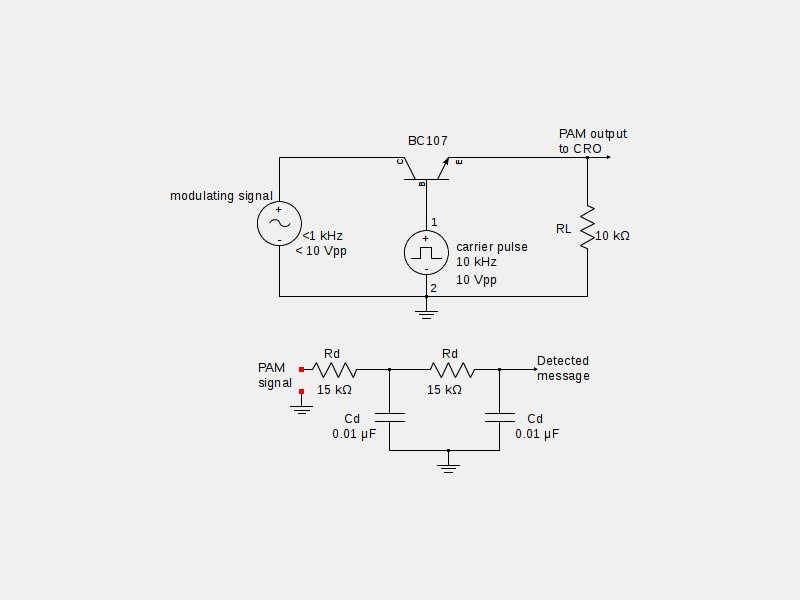
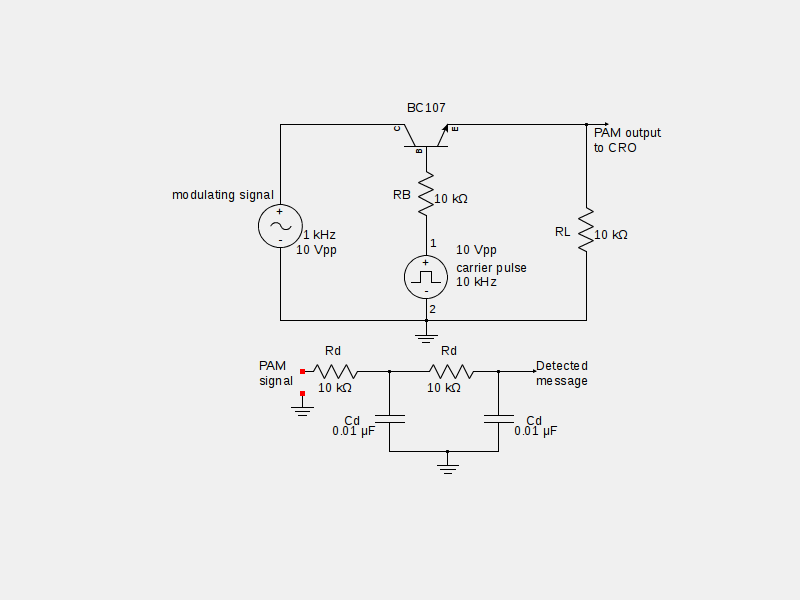
Correction done in circuit diagram of PAM using transistor
Added a missing resistor at the base of the transistor.
Modified the demodulator diagram as per the design.

diff --git a/chapters/PAM.tex b/chapters/PAM.tex
@@ -5,7 +5,8 @@ To set-up and implement circuits to carry out pulse amplitude modulation. To des
 \section*{Theory}
 Pulse amplitude modulation is a kind of digital modulation technique in which analog message signal is sampled at constant frequency - \emph{carrier frequency}. A pulse of specified duration is used to sample the message signal. When the pulse is on, the message is sampled and when it is off no message is sampled. This is a basic step in the digitization of analog message signals. The circuits to be implemented in this experiment does a kind of natural sampling.\footnote{For more on natural sampling, refer Digital Transmission \cite{Tomasi}}.
 
-Waveforms showing pulse carriers whose amplitude is modulated buy message is shown in Figure \ref{PAMmod1} and \ref{PAMmod2}. A simple way to implement this is to allow the message to be fed as the input to a switch and the switch ON/OFF time is controlled by the pulses at sampling frequency.
+Waveforms showing pulse carriers whose amplitude is modulated buy message is shown in Figure \ref{PAMmod1} and \ref{PAMmod2
+}. A simple way to implement this is to allow the message to be fed as the input to a switch and the switch ON/OFF time is controlled by the pulses at sampling frequency.
 
 The demodulation of PAM waveform can be implemented by using a lowpass filter which passes message signal frequenies but blocks the carrier signal.
 \begin{figure}[h]
@@ -49,7 +50,7 @@ Choose $R_d=\ 10k\Omega$ standard resistor value.\\
 The PAM generation using transistor as a switch and demodulation circuit is shown in Figure. \ref{pamckt}.
 
 \begin{figure}
-\includegraphics[width=\textwidth, trim=5cm 3cm 4cm 4cm,clip=true]{pamckt1.png}
+\includegraphics[height= 6cm, width=\textwidth, trim=5cm 3cm 4cm 4cm,clip=true]{pamckt1.png}
 \caption{PAM generation and demodulation circuuit}
 \label{pamckt}
 \end{figure}
